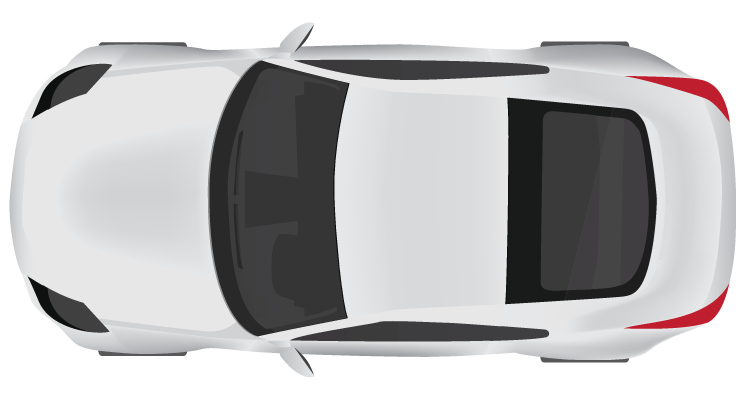
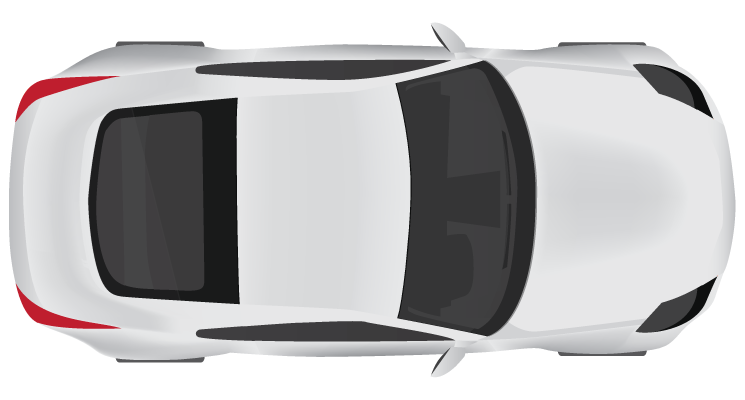
flipped car and fixed #9 car movement

diff --git a/index.html b/index.html
@@ -14,12 +14,11 @@
 		var carY = 300;
 		var carW = 30;
 		var carH = 25;
-		var carXSpeed = 5;
-		var carYSpeed = 7;
+		var carSpeed = 5;
 		var carRadius = 10;
 		var carPic = document.createElement('img');
 		var carPicLoaded = false;
-		var carAng = 0.02;
+		var carAng = 0;
 
 		//track wall
 		const TRACK_W = 40;
@@ -73,6 +72,7 @@
 			cx = canvas.getContext('2d');
 
 			carReset();
+
 			var framesPerSec = 30;
 			setInterval(function() {
 				moveEverything();
@@ -84,6 +84,7 @@
 
 			carPic.onload = function() {
 				carPicLoaded = true;
+				drawBitmapCenteredWithRotation(carPic, carX,carY, carAng);
 			}
 			carPic.src="images/white-car.png";
 		}
@@ -106,78 +107,25 @@
 		function bounceOffTrackAtPixelCoord(carX,carY) {
 			var trackTileCol = Math.floor(carX/TRACK_W);
 			var trackTileRow = Math.floor(carY/TRACK_H);
-			//return if not a valid tile value
-	    if (trackTileCol < 0 ||
-		    	trackTileCol >= TRACK_COLS ||
-	        trackTileRow < 0 ||
-	        trackTileRow >= TRACK_ROWS) {
-	    	return;
-	    }
+
 			var trackIndex = trackTileToIndex(trackTileCol, trackTileRow);
 			if (trackGrid[trackIndex] == 1) {
-				var prevCarX = carX - carXSpeed;
-				var prevCarY = carY - carYSpeed;
-
-				var prevTrackTileCol = Math.floor(prevCarX/TRACK_W);
-				var prevTrackTileRow = Math.floor(prevCarY/TRACK_H);
-
-				var bothTestsFailed = true;
-				if (prevTrackTileCol != trackTileCol) {
-					var adjTrackIndex = trackTileToIndex(prevTrackTileCol, trackTileRow);
-					if (trackGrid[adjTrackIndex] != 1) {
-						carXSpeed *= -1;
-						bothTestsFailed = false;
-					}
-				}
-
-				if (prevTrackTileRow != trackTileRow) {
-					var adjTrackIndex = trackTileToIndex(trackTileCol, prevTrackTileRow);
-					if (trackGrid[adjTrackIndex] != 1) {
-						carYSpeed *= -1;
-						bothTestsFailed = false;
-					}
-				}
-
-				if (bothTestsFailed) {
-					carXSpeed *= -1;
-					carYSpeed *= -1;
-				}
-				//trackGrid[trackIndex] = 0;
+				carSpeed *= -1;
 			}
 		}
 
 		function moveEverything() {
-			//bounce off right and left edge
-
-/*			if (carX > canvas.width ||
-				  carX < 0) {
-				carXSpeed *= -1;
-			}
-			//bounce off top
-			if (carY < 0) {
-				carYSpeed *= -1;
-			}
-			if (carY > canvas.height) {
-				carReset();
-			}*/
-			
 			//track zone
 			bounceOffTrackAtPixelCoord(carX, carY);
-
-			carX += carXSpeed;
-			carY += carYSpeed;
+			carX += Math.cos(carAng) * carSpeed;
+			carY += Math.sin(carAng) * carSpeed;
 			carAng += 0.02;
 			
 		}
 
 		function carDraw() {
 			if(carPicLoaded) {
-				//cx.save();
-				//cx.translate(carX, carY);
-				//cx.rotate(carAng);
 				drawBitmapCenteredWithRotation(carPic, carX,carY, carAng);
-				//cx.restore();
-				//carAng+= .2;
 			}
 		}
 
